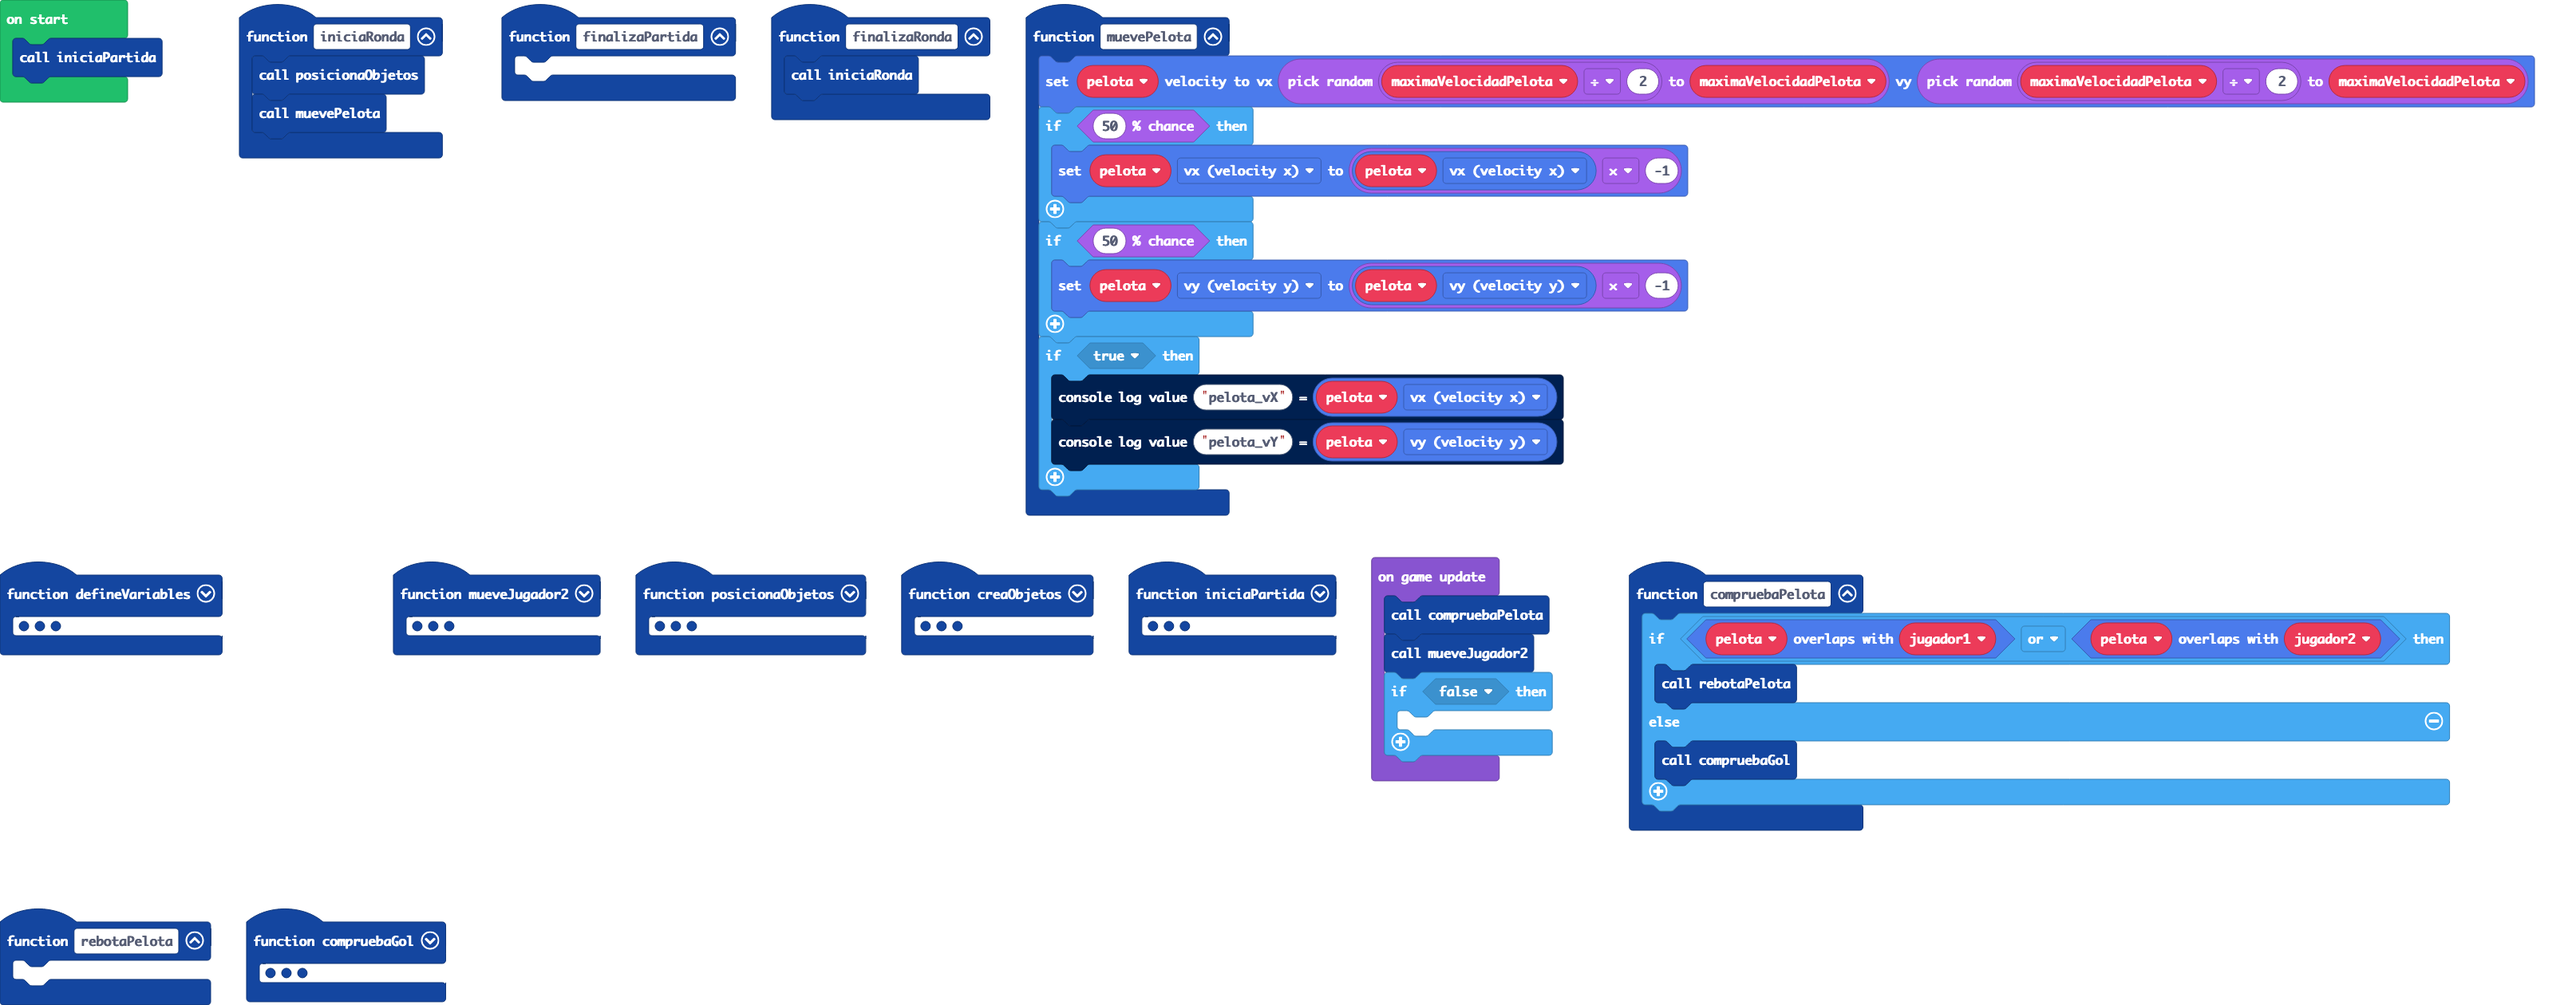
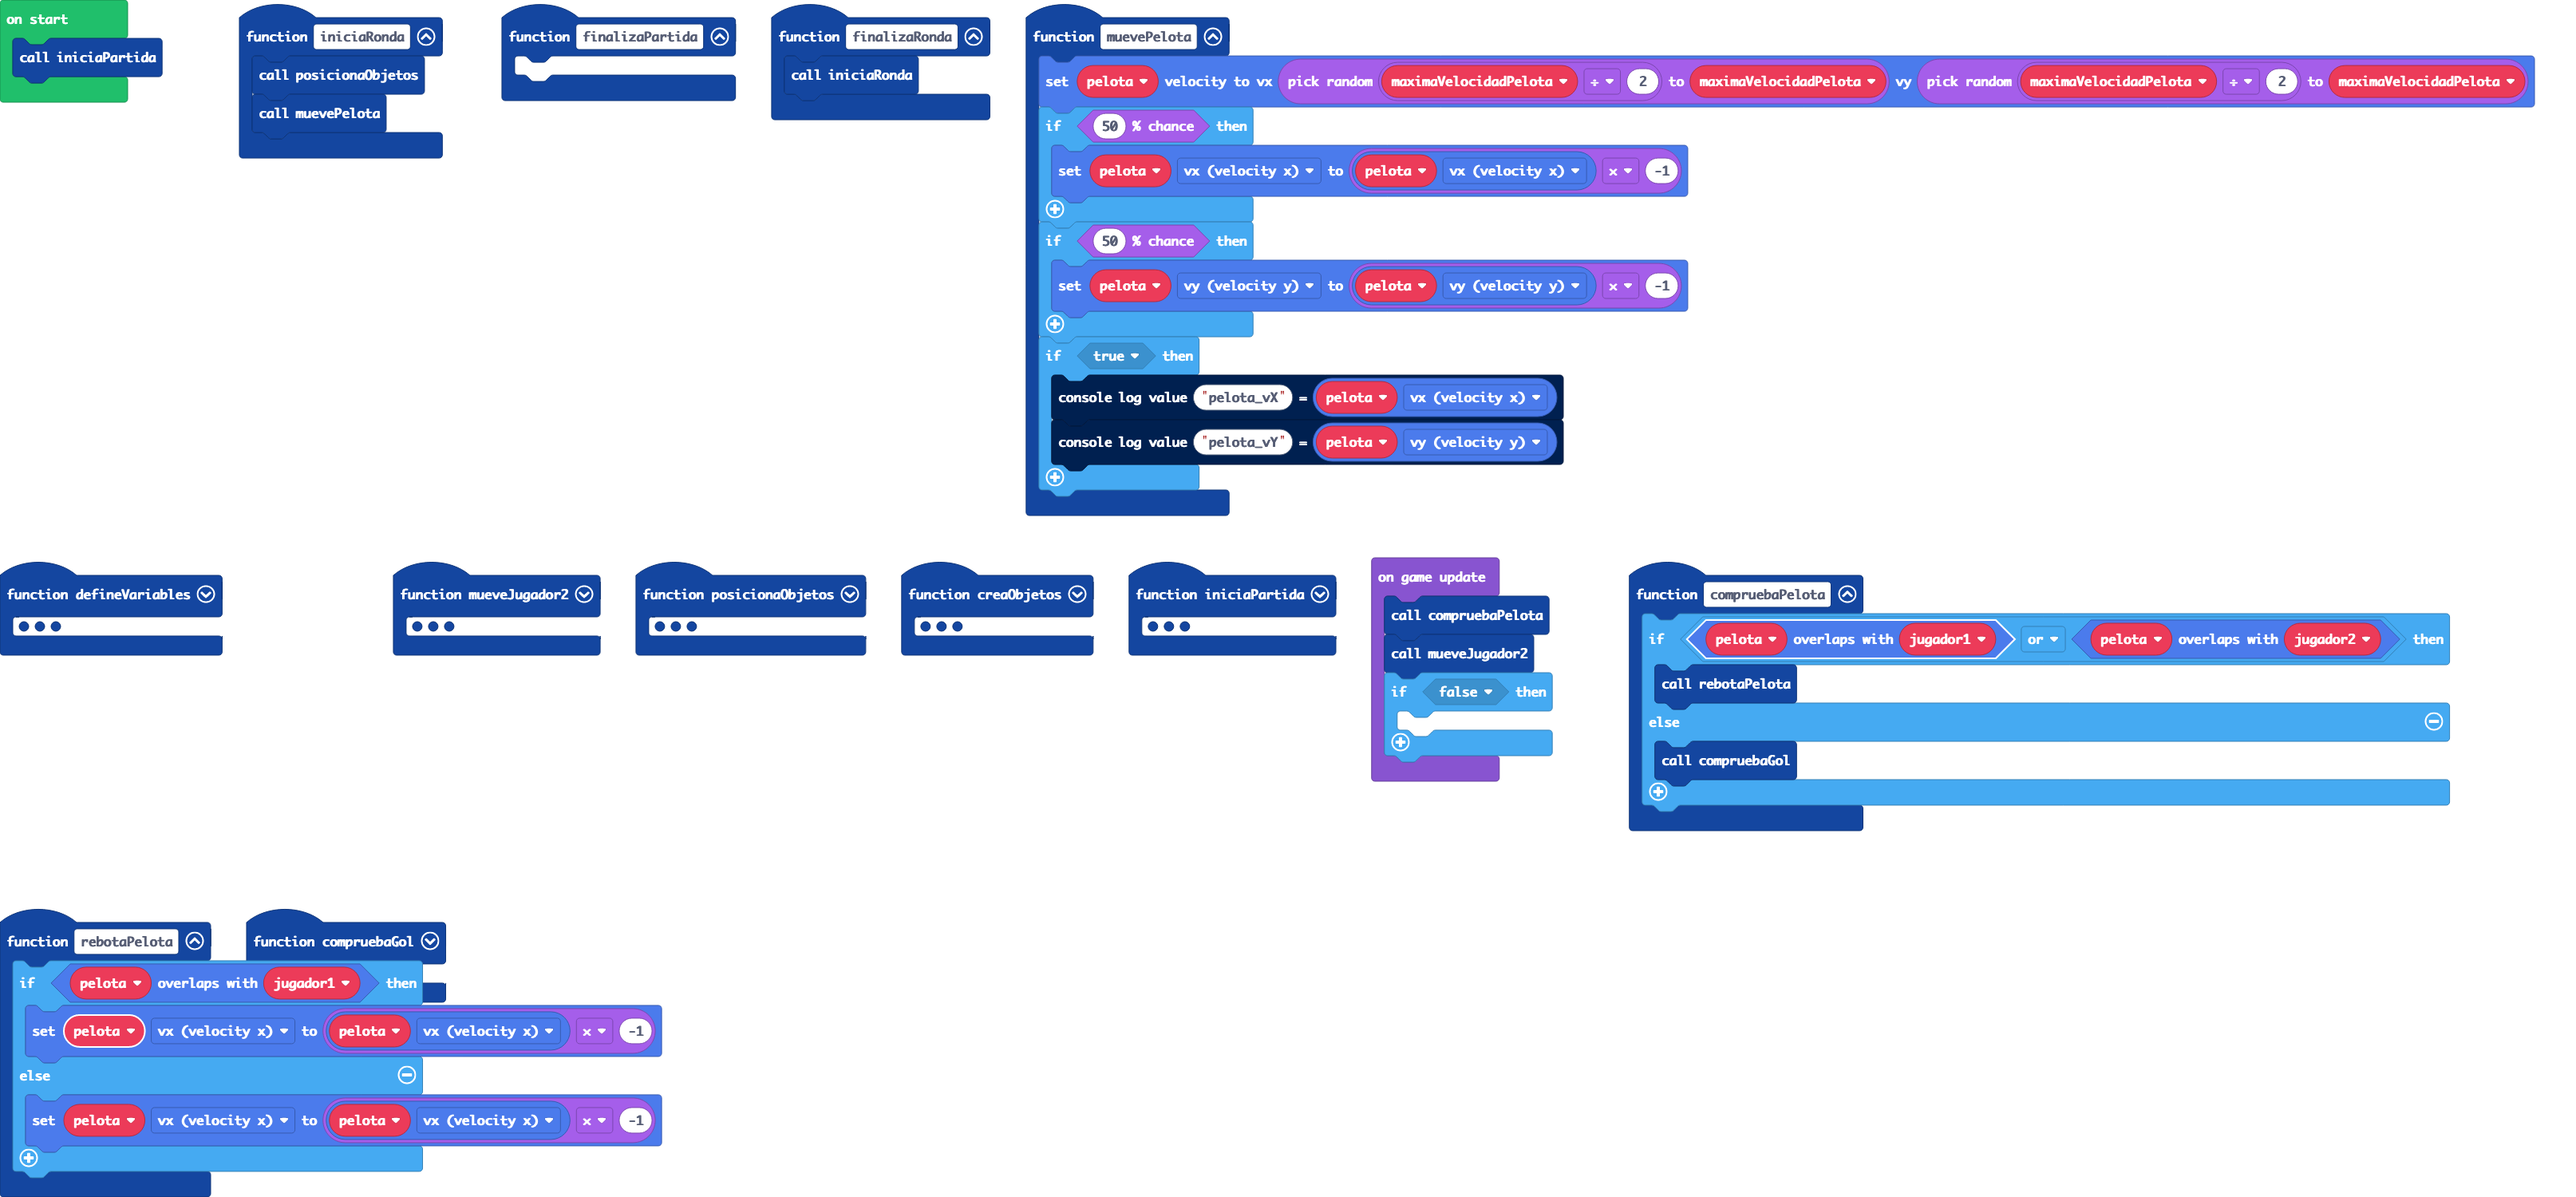
la pelota ya rebota en los jugadores

diff --git a/main.ts b/main.ts
@@ -2,7 +2,11 @@ function finalizaRonda () {
     iniciaRonda()
 }
 function rebotaPelota () {
-	
+    if (pelota.overlapsWith(jugador1)) {
+        pelota.vx = pelota.vx * -1
+    } else {
+        pelota.vx = pelota.vx * -1
+    }
 }
 function iniciaRonda () {
     posicionaObjetos()
